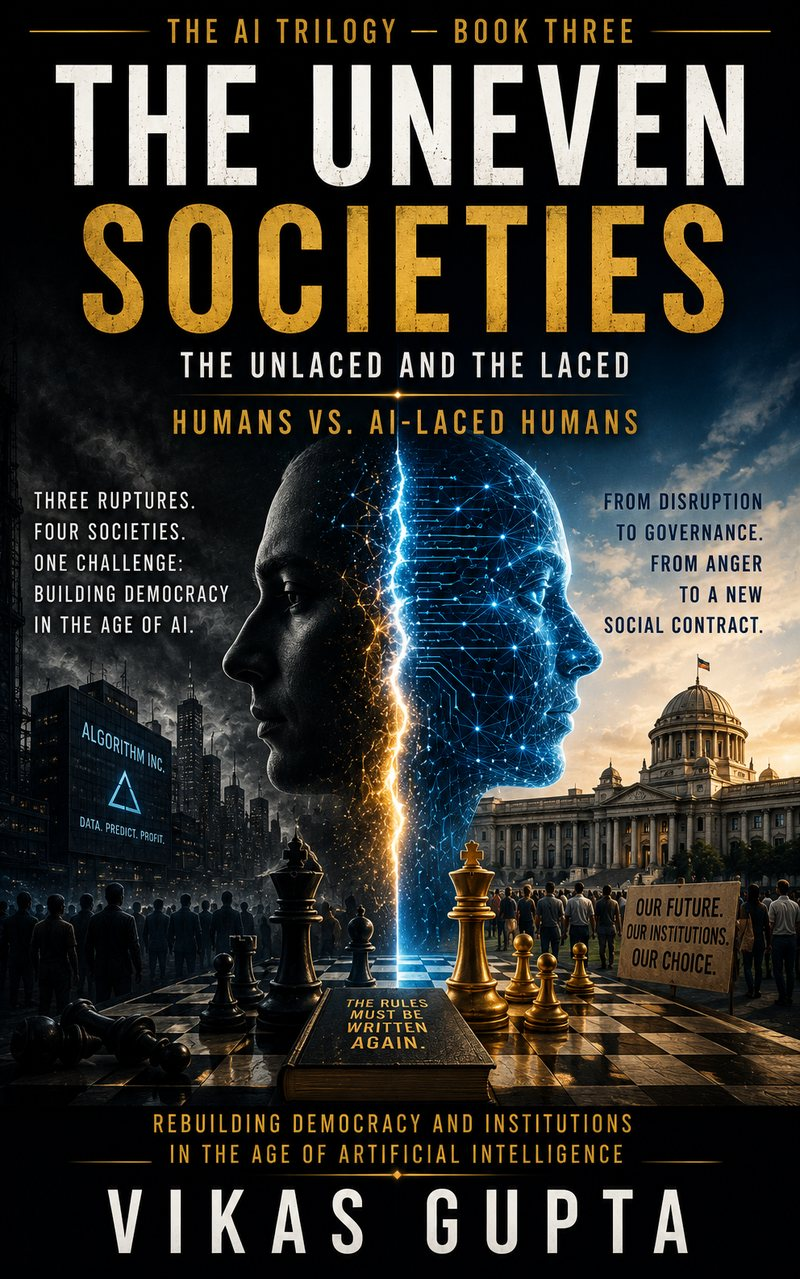
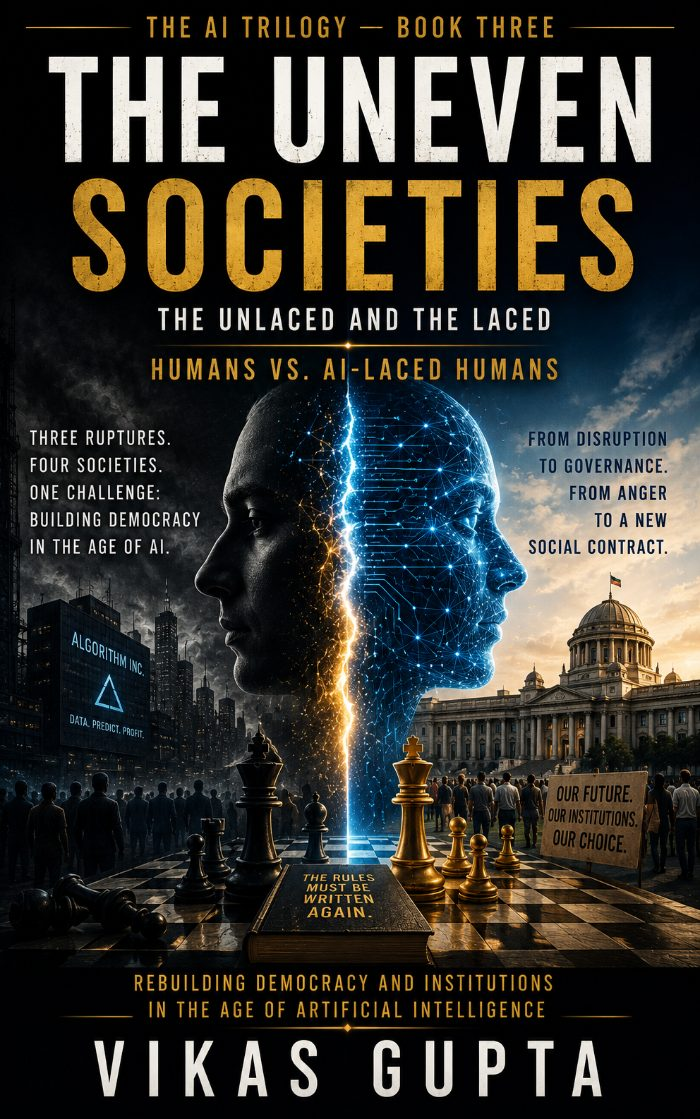
Fix trilogy cover alignment with a fixed 2:3 aspect box
Book covers have differing native aspect ratios (992x1586 vs
1024x1536), which stretched them unevenly across each 3-column
trilogy row. Wraps each in a fixed 2:3 box (overflow hidden) and
switches the image to object-fit: contain, so every row of three
covers now aligns to the same height. Also swaps in the official
book1-7.jpg assets from the latest design handoff package in place
of the earlier re-compression.

Claude-Session: https://claude.ai/code/session_01V31B1WDb6QE7wNunL3foCE

diff --git a/styles.css b/styles.css
@@ -102,9 +102,9 @@ img { max-width: 100%; }
 
 .books-grid { display: grid; grid-template-columns: repeat(3,1fr); gap: 32px; padding: 0 72px; max-width: 1320px; margin: 0 auto; }
 .book-card { display: flex; flex-direction: column; gap: 14px; text-decoration: none; color: inherit; }
-.book-cover { box-shadow: 6px 10px 32px rgba(26,18,8,0.15); transition: transform 0.35s ease, box-shadow 0.35s ease; }
+.book-cover { box-shadow: 6px 10px 32px rgba(26,18,8,0.15); transition: transform 0.35s ease, box-shadow 0.35s ease; aspect-ratio: 2 / 3; overflow: hidden; }
 .book-card:hover .book-cover { transform: translateY(-5px); box-shadow: 8px 16px 44px rgba(26,18,8,0.22); }
-.book-cover img { width: 100%; height: auto; display: block; }
+.book-cover img { width: 100%; height: 100%; display: block; object-fit: contain; }
 .book-tag { font-size: 9px; letter-spacing: 0.2em; font-weight: 500; }
 .book-tag-gold { color: #C9A030; }
 .book-tag-orange { color: #C8601A; }
